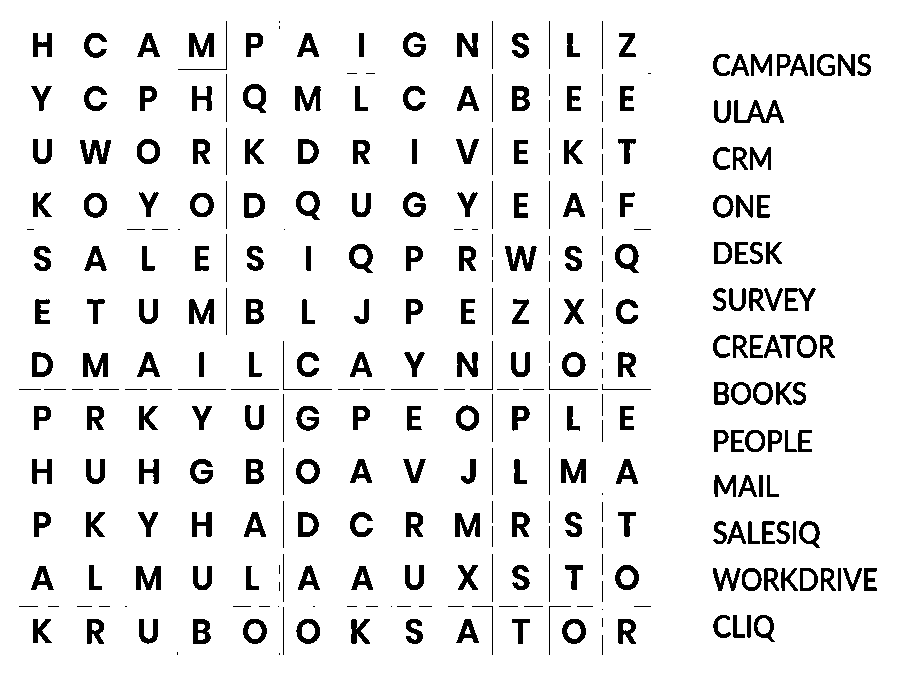
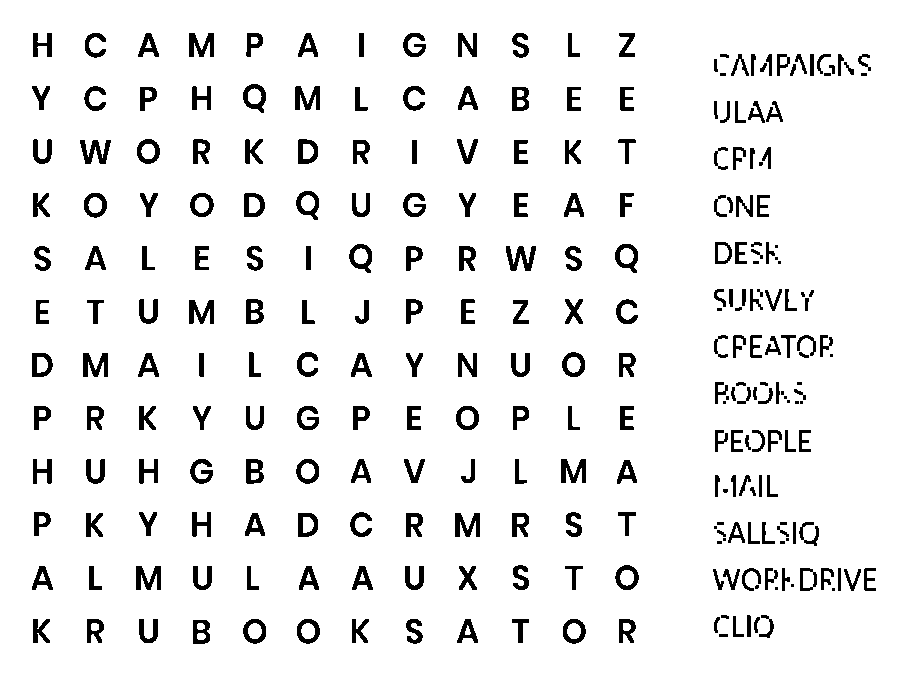
1

diff --git a/src/preprocessing.c b/src/preprocessing.c
@@ -113,47 +113,8 @@ Image* to_binary_auto(Image *src)
     if (!src || !src->data || src->channels != 1)
         return NULL;
 
-    int w = src->width;
-    int h = src->height;
-
-    int window = w / 16;
-    if (window < 15) window = 15;
-    if (window % 2 == 0) window++;
-
-    int half = window / 2;
-
-    Image *dst = malloc(sizeof(Image));
-    if (!dst) return NULL;
-    dst->width = w;
-    dst->height = h;
-    dst->channels = 1;
-    dst->data = malloc((size_t)w*h);
-    if (!dst->data) { free(dst); return NULL; }
-
-    for (int y = 0; y < h; ++y) {
-        for (int x = 0; x < w; ++x) {
-
-            int sum = 0;
-            int count = 0;
-
-            int y0 = (y - half < 0    ? 0    : y - half);
-            int y1 = (y + half >= h ? h - 1 : y + half);
-            int x0 = (x - half < 0    ? 0    : x - half);
-            int x1 = (x + half >= w ? w - 1 : x + half);
-
-            for (int yy = y0; yy <= y1; ++yy)
-                for (int xx = x0; xx <= x1; ++xx) {
-                    sum += src->data[yy*w + xx];
-                    count++;
-                }
-
-            int localMean = sum / count;
-
-            dst->data[y*w + x] = (src->data[y*w + x] < localMean - 10) ? 0 : 255;
-        }
-    }
-
-    return dst;
+    unsigned char thr = otsu_threshold(src);
+    return to_binary(src, thr);
 }
 
 static Image* copy_image_1c(const Image *src)
@@ -198,32 +159,48 @@ Image* denoise_image_median3x3(Image *src)
     int w = src->width;
     int h = src->height;
 
+    Image *tmp = malloc(sizeof(Image));
+    if (!tmp) return NULL;
+    tmp->width = w;
+    tmp->height = h;
+    tmp->channels = 1;
+    tmp->data = malloc((size_t)w*h);
+    if (!tmp->data) { free(tmp); return NULL; }
+
     Image *dst = malloc(sizeof(Image));
-    if (!dst) return NULL;
+    if (!dst) { free(tmp->data); free(tmp); return NULL; }
     dst->width = w;
     dst->height = h;
     dst->channels = 1;
     dst->data = malloc((size_t)w*h);
-    if (!dst->data) { free(dst); return NULL; }
+    if (!dst->data) { free(tmp->data); free(tmp); free(dst); return NULL; }
 
-    memcpy(dst->data, src->data, (size_t)w*h);
+    memcpy(tmp->data, src->data, (size_t)w*h);
 
     for (int y = 1; y < h - 1; ++y) {
         for (int x = 1; x < w - 1; ++x) {
-            if (src->data[y*w + x] != 0)
-                continue;
-
-            int black = 0;
-            for (int dy = -1; dy <= 1; ++dy)
+            int all_black = 1;
+            for (int dy = -1; dy <= 1 && all_black; ++dy)
                 for (int dx = -1; dx <= 1; ++dx)
-                    if (src->data[(y+dy)*w + (x+dx)] == 0)
-                        black++;
-
-            if (black <= 2)
-                dst->data[y*w + x] = 255;
+                    if (src->data[(y+dy)*w + (x+dx)] != 0) { all_black = 0; break; }
+            tmp->data[y*w + x] = all_black ? 0 : 255;
         }
     }
 
+    memcpy(dst->data, tmp->data, (size_t)w*h);
+
+    for (int y = 1; y < h - 1; ++y) {
+        for (int x = 1; x < w - 1; ++x) {
+            int any_black = 0;
+            for (int dy = -1; dy <= 1 && !any_black; ++dy)
+                for (int dx = -1; dx <= 1; ++dx)
+                    if (tmp->data[(y+dy)*w + (x+dx)] == 0) { any_black = 1; break; }
+            dst->data[y*w + x] = any_black ? 0 : 255;
+        }
+    }
+
+    free(tmp->data);
+    free(tmp);
     return dst;
 }
 
